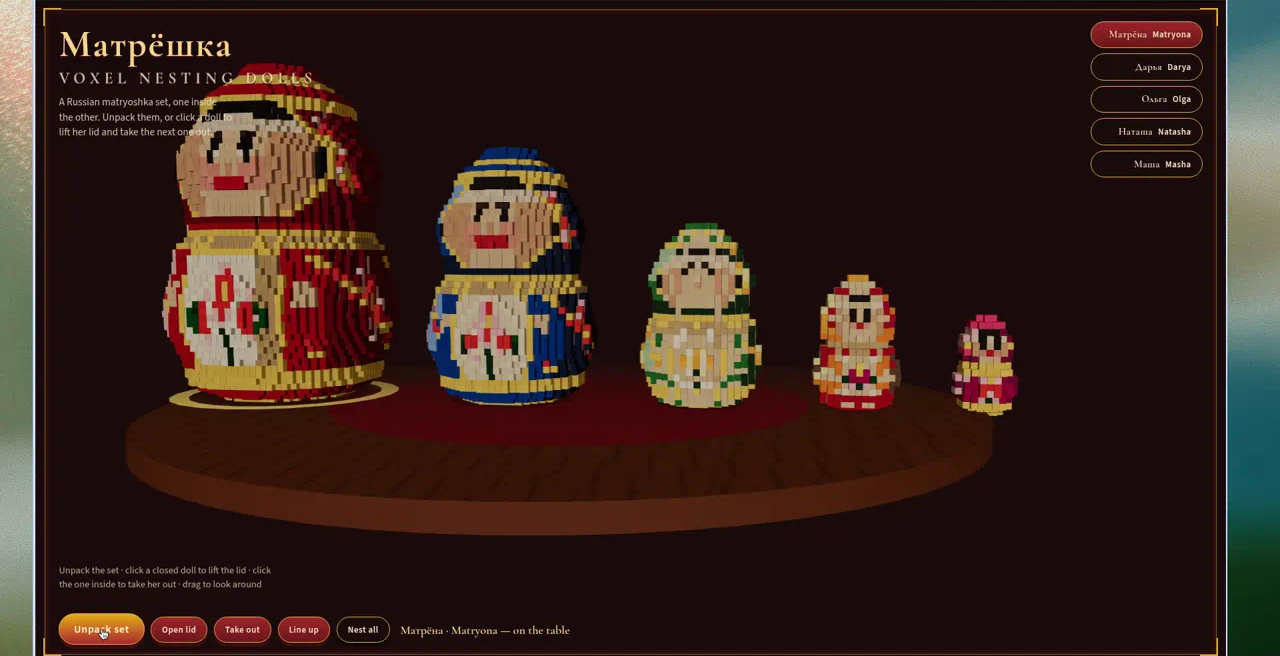
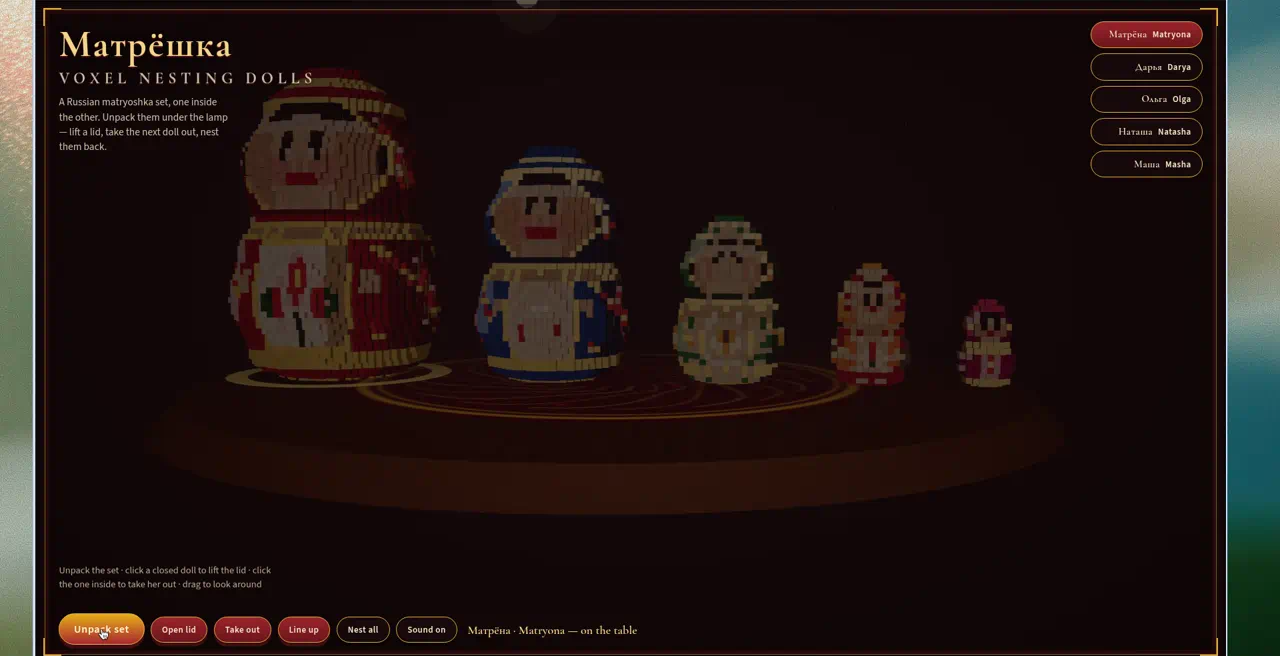
Brighten the lamp-lit room and keep nest-all from zooming in
Home framing stays pulled back after packing, gold catches more light,
and the README shows the cloth, the open lid, and the full lineup.

Changed region(s): [[0.0312, 0.0915, 0.8125, 0.8232], [0.3125, 0.9451, 0.5, 0.9756], [0.4062, 0.0, 0.4375, 0.0305]]

diff --git a/js/viewer.js b/js/viewer.js
@@ -13,7 +13,7 @@ renderer.setSize(innerWidth, innerHeight);
 renderer.shadowMap.enabled = false;
 renderer.outputColorSpace = THREE.SRGBColorSpace;
 renderer.toneMapping = THREE.ACESFilmicToneMapping;
-renderer.toneMappingExposure = 1.12;
+renderer.toneMappingExposure = 1.28;
 
 const scene = new THREE.Scene();
 scene.background = new THREE.Color(0x14080a);
@@ -31,13 +31,13 @@ controls.minDistance = 36;
 controls.maxDistance = 260;
 
 scene.add(new THREE.HemisphereLight(0xffe6c4, 0x2a1010, 0.55));
-const key = new THREE.DirectionalLight(0xfff1d6, 0.85);
+const key = new THREE.DirectionalLight(0xfff1d6, 1.05);
 key.position.set(32, 58, 40);
 scene.add(key);
 scene.add(new THREE.DirectionalLight(0x6a80c0, 0.18)).position.set(-50, 16, -28);
-scene.add(new THREE.DirectionalLight(0xfff6e4, 0.4)).position.set(6, 22, 70);
+scene.add(new THREE.DirectionalLight(0xfff6e4, 0.62)).position.set(6, 22, 70);
 
-const lamp = new THREE.PointLight(0xffc878, 1.55, 160, 1.6);
+const lamp = new THREE.PointLight(0xffc878, 1.85, 170, 1.5);
 lamp.position.set(-10, 62, 18);
 scene.add(lamp);
 const bulb = new THREE.Mesh(
@@ -165,7 +165,7 @@ const pointer = new THREE.Vector2();
 const dummy = new THREE.Object3D();
 const tmpColor = new THREE.Color();
 const boxGeo = new THREE.BoxGeometry(1, 1, 1);
-const camGoal = new THREE.Vector3(22, 42, 118);
+const camGoal = new THREE.Vector3(24, 44, 132);
 const targetGoal = new THREE.Vector3(0, 24, 0);
 
 let data = null;
@@ -379,6 +379,12 @@ function setStatus() {
   });
 }
 
+function frameHome() {
+  targetGoal.set(0, 24, 0);
+  camGoal.set(24, 44, 132);
+  autoCam = true;
+}
+
 function frameVisible() {
   const vis = actors.filter((a) => a.nestedIn == null);
   if (!vis.length) return;
@@ -390,7 +396,7 @@ function frameVisible() {
   });
   const cx = (minx + maxx) / 2;
   const span = Math.max(40, maxx - minx + 24);
-  const dist = Math.max(118, span * 1.22 + maxh * 0.75);
+  const dist = Math.max(132, span * 1.22 + maxh * 0.75);
   targetGoal.set(cx, maxh * 0.45, 0);
   camGoal.set(cx + dist * 0.14, Math.max(34, maxh * 0.58 + 12), dist);
   autoCam = true;
@@ -542,7 +548,7 @@ async function unpackAll() {
   busy = true;
   snapNested();
   actors[0].pos.set(0, 0, 0);
-  frameVisible();
+  frameHome();
   await wait(500);
   for (let i = 0; i < actors.length - 1; i++) {
     selected = i;
@@ -593,7 +599,7 @@ async function packAll() {
   actors[0].goal.set(0, 0, 0);
   selected = 0;
   setStatus();
-  frameVisible();
+  frameHome();
   busy = false;
 }
 

diff --git a/index.html b/index.html
@@ -44,6 +44,6 @@
     }
   }
   </script>
-  <script type="module" src="js/viewer.js?v=4"></script>
+  <script type="module" src="js/viewer.js?v=5"></script>
 </body>
 </html>

diff --git a/README.md b/README.md
@@ -24,6 +24,8 @@ python3 -m http.server 8000
 
 Then open [http://localhost:8000](http://localhost:8000).
 
+![A lamp-lit nested doll on a khokhloma cloth](previews/viewer-home.png)
+
 ![Lid open, inner doll peeking out](previews/viewer-peek.png)
 
 ![Take the inner doll out](previews/viewer-open.png)
